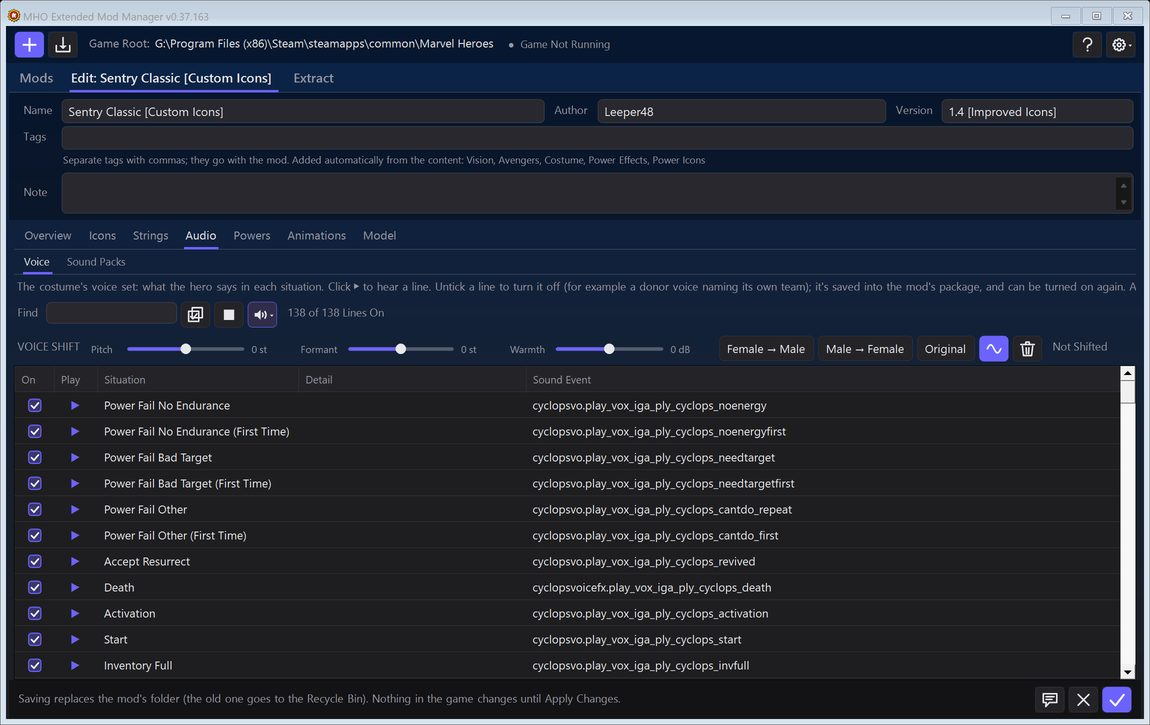
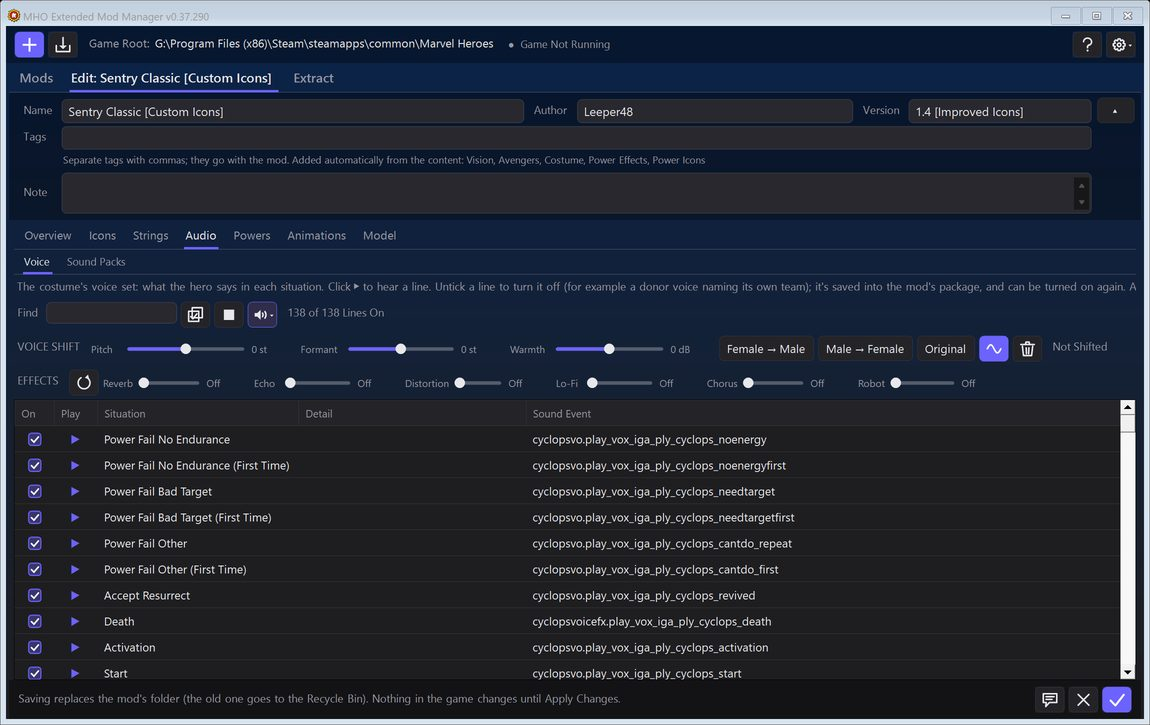
MHO Extended Mod Manager 0.37.291: release prep (What's New, manual walkthrough and screenshot)
- What's New notice: voice effects, team-up voices, the Cable / Symbiote voice fix, steeper dark glows (opens the Voice walkthrough).
- Voice tab: No Effects first in the Effects row, sliders narrower, the row wraps on a narrow window (it ran past the edge).
- Manual: the Voice walkthrough is "Give a Costume Another Voice, Shift It or Add Effects"; its screenshot shows the Effects row. Links and images checked; tooltip audit clean.

diff --git a/MhoExtendedModManager/Manual/manual.html b/MhoExtendedModManager/Manual/manual.html
@@ -154,7 +154,7 @@ function mhoNext(dir) {
 <li><a href="#w-dark">Make a Power Dark</a></li>
 <!-- HIDDEN until Borrowed Look is released (WhatsNew.PowerBorrowReleased): <li><a href="#w-borrow">Give a Power Another Hero's Look</a></li> -->
 <li><a href="#w-anims">Give a Costume Another Character's Animations</a></li>
-<li><a href="#w-voice">Give a Costume Another Voice, or Shift It</a></li>
+<li><a href="#w-voice">Give a Costume Another Voice, Shift It or Add Effects</a></li>
 <li><a href="#w-model">Put Your Own Model on a Costume</a></li>
 <li><a href="#w-size">Make a Character Bigger or Smaller</a></li>
 <li><a href="#w-npc">Put a Model on an NPC, Enemy or Team-Up</a></li>
@@ -341,7 +341,7 @@ function mhoNext(dir) {
 </div>
 
 <div class="walk">
-<h3 id="w-voice">Give a Costume Another Voice, or Shift It</h3>
+<h3 id="w-voice">Give a Costume Another Voice, Shift It or Add Effects</h3>
 <ol class="steps">
 <li>Open the mod in the Editor and go to <b>Audio → Voice</b>. If no lines show, use the button above the list to put the hero's voice in.</li>
 <li>Press ▶ on a line to hear it; untick a line to turn it off.</li>
@@ -349,7 +349,7 @@ function mhoNext(dir) {
 <li>To make the voice higher or lower, start from <b>Female → Male</b> or <b>Male → Female</b>, adjust <b>Pitch</b>, <b>Formant</b> and <b>Warmth</b> while playing lines. For an effect, move the <b>EFFECTS</b> sliders (Reverb, Echo, Distortion, Lo-Fi, Chorus, Robot). Then click <b>Apply to This Voice</b>.</li>
 <li>Save Changes, then Apply Changes.</li>
 </ol>
-<figure><img src="img/editor-voice.jpg" alt="The Voice tab: each situation the hero speaks in, its sound, and the Voice Shift sliders above."><figcaption>The Voice tab: each situation the hero speaks in, its sound, and the Voice Shift sliders above.</figcaption></figure>
+<figure><img src="img/editor-voice.jpg" alt="The Voice tab: each situation the hero speaks in, its sound, and the Voice Shift and Effects sliders above."><figcaption>The Voice tab: each situation the hero speaks in, its sound, and the Voice Shift and Effects sliders above.</figcaption></figure>
 <p>See <a href="#voice">Voice lines</a>.</p>
 </div>
 

diff --git a/MhoExtendedModManager/WhatsNew.cs b/MhoExtendedModManager/WhatsNew.cs
@@ -34,7 +34,20 @@ static class WhatsNew
     const string Discord1 = "https://discord.com/channels/1130836076332863580/1553841408471867442";
     const string Discord2 = "https://discord.com/channels/1142968916205903942/1553842238969352263";
 
-    public static IReadOnlyList<Notice> Notices => ModelTabReleased ? [DarkPowers(), SafeUnique(), UnibeamAndShared(), CrashChecks(), AddRigs(), PropTargets(), AdjustColors(), TidyData(), NexusSignIn(), PhoenixEffects(), AnyTarget(), TextureManager(), HistorySmall(), PowersPlaced(), ScreenFit(), FormatsAndEditors(), SizeAndNpcs(), ModelNotice(), SingleColors(), Editor(PowersAndAnimations)] : [SingleColors(), Editor(PowersAndAnimations)];
+    public static IReadOnlyList<Notice> Notices => ModelTabReleased ? [VoiceEffects(), DarkPowers(), SafeUnique(), UnibeamAndShared(), CrashChecks(), AddRigs(), PropTargets(), AdjustColors(), TidyData(), NexusSignIn(), PhoenixEffects(), AnyTarget(), TextureManager(), HistorySmall(), PowersPlaced(), ScreenFit(), FormatsAndEditors(), SizeAndNpcs(), ModelNotice(), SingleColors(), Editor(PowersAndAnimations)] : [SingleColors(), Editor(PowersAndAnimations)];
+
+    /// <summary>0.37.291 (Kurt, 2026-10-17): voice effects, team-up voices.</summary>
+    static Notice VoiceEffects() => new(
+        "0.37.291-voice-effects", "0.37.291",
+        "[!]Voice effects: Editor → Audio → Voice has an Effects row under Voice Shift: Reverb, Echo, Distortion, Lo-Fi, Chorus and Robot, each from Off to 100 %." + nl +
+        "  • They combine with each other and with the shift; ▶ plays any line with them." + nl +
+        "  • Apply to This Voice (was Shift This Voice) puts them into the mod, as a sound pack MHModManager can install too." + nl +
+        "  • No Effects turns them all off." + nl + nl +
+        "Team-ups have the Voice tab too: List, play, turn off or shift a team-up's lines, or give it another voice. Use Another Voice has a Team-Ups submenu, so a team-up's voice can go into a costume as well." + nl + nl +
+        "Fixed: Cable's and Symbiote Spider-Man's voices couldn't be copied (\"Voice Not Changed\"). All of the game's voice sets now copy." + nl + nl +
+        "Dark powers: Soft glows now fall off steeply like beams instead of showing as large dark squares." + nl + nl +
+        "If something doesn't work, please report it on Discord: [MHServerEmu Development](" + Discord1 + ") or [TAHITI](" + Discord2 + ").",
+        "w-voice");
 
     /// <summary>0.37.287 (Kurt, 2026-10-16): dark powers, removing several mods at once.</summary>
     static Notice DarkPowers() => new(

diff --git a/MhoExtendedModManager/Gui/ModEditorView.Voice.cs b/MhoExtendedModManager/Gui/ModEditorView.Voice.cs
@@ -48,7 +48,7 @@ sealed partial class ModEditorView
         // Filters (a user asked, 2026-10-16): 0-100 % each, previewed with ▶, applied with the shift
         LightSlider Fx(string label, string tip)
         {
-            var sl = new LightSlider { Label = label, Min = 0, Max = 1, Step = 0.05f, Mark = 0, Format = v => v == 0 ? "Off" : $"{v * 100:0} %", Home = () => 0, Size = new Size((int)(200 * S), (int)(30 * S)), Margin = new Padding(0, 2, (int)(8 * S), 0) };
+            var sl = new LightSlider { Label = label, Min = 0, Max = 1, Step = 0.05f, Mark = 0, Format = v => v == 0 ? "Off" : $"{v * 100:0} %", Home = () => 0, Size = new Size((int)(165 * S), (int)(30 * S)), Margin = new Padding(0, 2, (int)(8 * S), 0) };
             sl.Value = 0; Ui.Tip(sl, tip + " ▶ plays lines with it; Apply to This Voice puts it into the mod (double-click: off).");
             return sl;
         }
@@ -69,7 +69,8 @@ sealed partial class ModEditorView
             Preset("Female → Male", -5, -2.5f, 0, "Pitch -5, formants -2.5: a starting point for a female voice to sound male."),
             Preset("Male → Female", 5, 2.5f, 2, "Pitch +5, formants +2.5, warmth +2 dB: a starting point for a male voice to sound female."),
             Preset("Original", 0, 0, 0, "Back to the line as it is (the filters stay as they are)."), shiftNow, unshift, voiceShiftNote);
-        var fxRow = Toolbar(new Label { Text = "EFFECTS", AutoSize = true, Tag = "subtle", Padding = new Padding(0, 8, 8, 0) }, voiceReverb, voiceEcho, voiceDistortion, voiceLoFi, voiceChorus, voiceRobot, noFx);
+        var fxRow = Toolbar(new Label { Text = "EFFECTS", AutoSize = true, Tag = "subtle", Padding = new Padding(0, 8, 8, 0) }, noFx, voiceReverb, voiceEcho, voiceDistortion, voiceLoFi, voiceChorus, voiceRobot);
+        fxRow.WrapContents = true;   // six sliders: a second line on a narrow window
         if (draft.VoiceShifts.FirstOrDefault() is { } saved)
         {
             voicePitch.Value = saved.Pitch; voiceFormant.Value = saved.Formant; voiceWarmth.Value = saved.Warmth;
